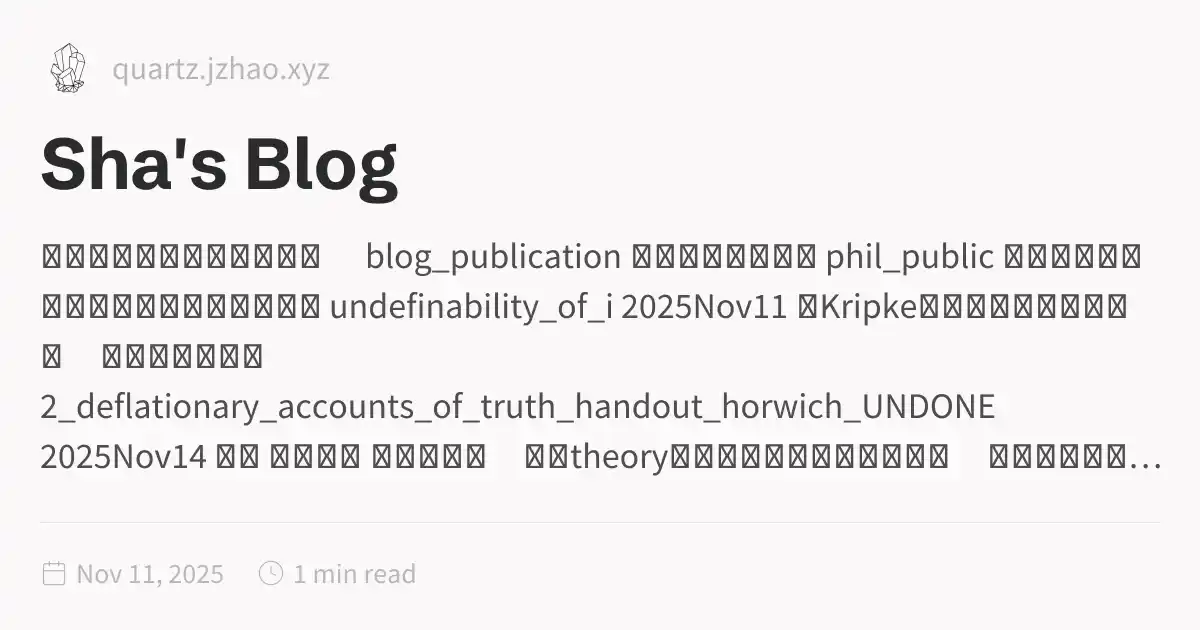
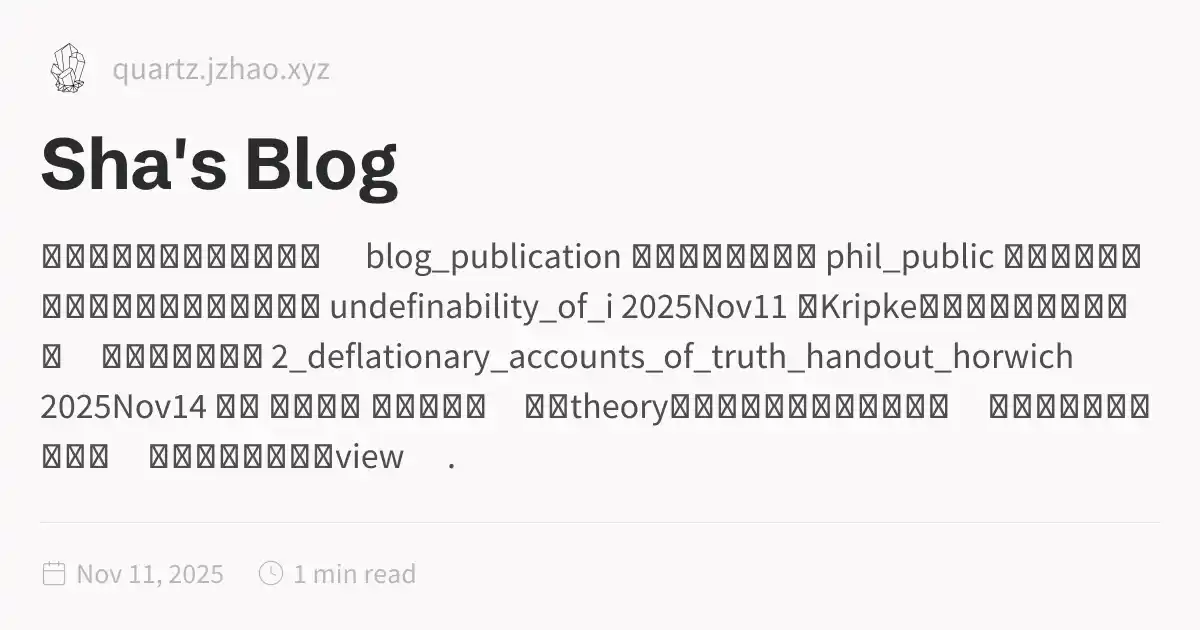
horwich truth undone3

Changed region(s): [[0.0308, 0.5429, 0.9558, 0.6635], [0.4317, 0.6937, 0.9558, 0.754], [0.0308, 0.6937, 0.4008, 0.754]]

diff --git a/docs/phil_public/index.html b/docs/phil_public/index.html
@@ -116,6 +116,6 @@ pre:hover > .expand-button {
   padding: 0 12px;
   font-size: 14px;
 }
[2 lines of base64/hex data omitted]
 </script><script type="module">function f(i,e){if(!i)return;function r(o){o.target===this&&(o.preventDefault(),o.stopPropagation(),e())}function t(o){o.key.startsWith("Esc")&&(o.preventDefault(),e())}i?.addEventListener("click",r),window.addCleanup(()=>i?.removeEventListener("click",r)),document.addEventListener("keydown",t),window.addCleanup(()=>document.removeEventListener("keydown",t))}function y(i){for(;i.firstChild;)i.removeChild(i.firstChild)}var h=class{constructor(e,r){this.container=e;this.content=r;this.setupEventListeners(),this.setupNavigationControls(),this.resetTransform()}isDragging=!1;startPan={x:0,y:0};currentPan={x:0,y:0};scale=1;MIN_SCALE=.5;MAX_SCALE=3;cleanups=[];setupEventListeners(){let e=this.onMouseDown.bind(this),r=this.onMouseMove.bind(this),t=this.onMouseUp.bind(this),o=this.resetTransform.bind(this);this.container.addEventListener("mousedown",e),document.addEventListener("mousemove",r),document.addEventListener("mouseup",t),window.addEventListener("resize",o),this.cleanups.push(()=>this.container.removeEventListener("mousedown",e),()=>document.removeEventListener("mousemove",r),()=>document.removeEventListener("mouseup",t),()=>window.removeEventListener("resize",o))}cleanup(){for(let e of this.cleanups)e()}setupNavigationControls(){let e=document.createElement("div");e.className="mermaid-controls";let r=this.createButton("+",()=>this.zoom(.1)),t=this.createButton("-",()=>this.zoom(-.1)),o=this.createButton("Reset",()=>this.resetTransform());e.appendChild(t),e.appendChild(o),e.appendChild(r),this.container.appendChild(e)}createButton(e,r){let t=document.createElement("button");return t.textContent=e,t.className="mermaid-control-button",t.addEventListener("click",r),window.addCleanup(()=>t.removeEventListener("click",r)),t}onMouseDown(e){e.button===0&&(this.isDragging=!0,this.startPan={x:e.clientX-this.currentPan.x,y:e.clientY-this.currentPan.y},this.container.style.cursor="grabbing")}onMouseMove(e){this.isDragging&&(e.preventDefault(),this.currentPan={x:e.clientX-this.startPan.x,y:e.clientY-this.startPan.y},this.updateTransform())}onMouseUp(){this.isDragging=!1,this.container.style.cursor="grab"}zoom(e){let r=Math.min(Math.max(this.scale+e,this.MIN_SCALE),this.MAX_SCALE),t=this.content.getBoundingClientRect(),o=t.width/2,n=t.height/2,c=r-this.scale;this.currentPan.x-=o*c,this.currentPan.y-=n*c,this.scale=r,this.updateTransform()}updateTransform(){this.content.style.transform=`translate(${this.currentPan.x}px, ${this.currentPan.y}px) scale(${this.scale})`}resetTransform(){this.scale=1;let e=this.content.querySelector("svg");this.currentPan={x:e.getBoundingClientRect().width/2,y:e.getBoundingClientRect().height/2},this.updateTransform()}},C=["--secondary","--tertiary","--gray","--light","--lightgray","--highlight","--dark","--darkgray","--codeFont"],E;document.addEventListener("nav",async()=>{let e=document.querySelector(".center").querySelectorAll("code.mermaid");if(e.length===0)return;E||=await import("https://cdnjs.cloudflare.com/ajax/libs/mermaid/11.4.0/mermaid.esm.min.mjs");let r=E.default,t=new WeakMap;for(let n of e)t.set(n,n.innerText);async function o(){for(let s of e){s.removeAttribute("data-processed");let a=t.get(s);a&&(s.innerHTML=a)}let n=C.reduce((s,a)=>(s[a]=window.getComputedStyle(document.documentElement).getPropertyValue(a),s),{}),c=document.documentElement.getAttribute("saved-theme")==="dark";r.initialize({startOnLoad:!1,securityLevel:"loose",theme:c?"dark":"base",themeVariables:{fontFamily:n["--codeFont"],primaryColor:n["--light"],primaryTextColor:n["--darkgray"],primaryBorderColor:n["--tertiary"],lineColor:n["--darkgray"],secondaryColor:n["--secondary"],tertiaryColor:n["--tertiary"],clusterBkg:n["--light"],edgeLabelBackground:n["--highlight"]}}),await r.run({nodes:e})}await o(),document.addEventListener("themechange",o),window.addCleanup(()=>document.removeEventListener("themechange",o));for(let n=0;n<e.length;n++){let v=function(){let g=l.querySelector("#mermaid-space"),m=l.querySelector(".mermaid-content");if(!m)return;y(m);let w=c.querySelector("svg").cloneNode(!0);m.appendChild(w),l.classList.add("active"),g.style.cursor="grab",u=new h(g,m)},M=function(){l.classList.remove("active"),u?.cleanup(),u=null},c=e[n],s=c.parentElement,a=s.querySelector(".clipboard-button"),d=s.querySelector(".expand-button"),p=window.getComputedStyle(a),L=a.offsetWidth+parseFloat(p.marginLeft||"0")+parseFloat(p.marginRight||"0");d.style.right=`calc(${L}px + 0.3rem)`,s.prepend(d);let l=s.querySelector("#mermaid-container");if(!l)return;let u=null;d.addEventListener("click",v),f(l,M),window.addCleanup(()=>{u?.cleanup(),d.removeEventListener("click",v)})}});
 </script><script src="https://cdn.jsdelivr.net/npm/katex@0.16.11/dist/contrib/copy-tex.min.js" type="application/javascript"></script><script src="../postscript.js" type="module"></script></html>

diff --git a/docs/blog_publication/Oct26_2025.html b/docs/blog_publication/Oct26_2025.html
@@ -116,7 +116,7 @@ pre:hover > .expand-button {
   padding: 0 12px;
   font-size: 14px;
 }
[2 lines of base64/hex data omitted]
 <p>恍惚间听到老师说在他想来世界有种最坏的可能，可能一切只存在了一秒，在此之前所有记忆全是幻觉。
 听上去是个很老掉牙的skepticism问题，毕竟这本书就是个重生版的hume。我不知道怎么反驳他。我想这确实有可能，毕竟一秒钟前我在白日做梦，或许世界诞生于梦醒时分，梦到的东西只是世界解的initial condition。我很讨厌康德用一些超自然和自己不承认是心理学的心理学去反驳他的做法。
 maudlin说拒绝这种可能也不实用。哪怕世界在此刻才开始运转，也不会影响任何我们对世界的认知，物理学的定律不会因此发生变化，历史书也不会改写。我们只是不知道怎么证明这一切确实存在。

diff --git a/docs/phil_public/2_deflationary_accounts_of_truth_handout_horwich.html b/docs/phil_public/2_deflationary_accounts_of_truth_handout_horwich.html
@@ -334,6 +334,6 @@ For, as I suggested in Section 2, it’s plausible that our acceptance of:</p>
                 C46.042,11.405,47.451,12,49,12c3.309,0,6-2.691,6-6S52.309,0,49,0z M11,9c0-1.103,0.897-2,2-2s2,0.897,2,2s-0.897,2-2,2
                 S11,10.103,11,9z M6,51c-2.206,0-4-1.794-4-4s1.794-4,4-4s4,1.794,4,4S8.206,51,6,51z M33,49c0,2.206-1.794,4-4,4s-4-1.794-4-4
                 s1.794-4,4-4S33,46.794,33,49z M29,31c-3.309,0-6-2.691-6-6s2.691-6,6-6s6,2.691,6,6S32.309,31,29,31z M47,41c0,1.103-0.897,2-2,2
-                s-2-0.897-2-2s0.897-2,2-2S47,39.897,47,41z M49,10c-2.206,0-4-1.794-4-4s1.794-4,4-4s4,1.794,4,4S51.206,10,49,10z"></path></svg></button></div><div class="global-graph-outer"><div class="global-graph-container" data-cfg="{&quot;drag&quot;:true,&quot;zoom&quot;:true,&quot;depth&quot;:-1,&quot;scale&quot;:0.9,&quot;repelForce&quot;:0.5,&quot;centerForce&quot;:0.2,&quot;linkDistance&quot;:30,&quot;fontSize&quot;:0.6,&quot;opacityScale&quot;:1,&quot;showTags&quot;:true,&quot;removeTags&quot;:[],&quot;focusOnHover&quot;:true,&quot;enableRadial&quot;:true}"></div></div></div><div class="toc desktop-only"><button type="button" class="toc-header" aria-controls="toc-0" aria-expanded="true"><h3>Table of Contents</h3><svg xmlns="http://www.w3.org/2000/svg" width="24" height="24" viewBox="0 0 24 24" fill="none" stroke="currentColor" stroke-width="2" stroke-linecap="round" stroke-linejoin="round" class="fold"><polyline points="6 9 12 15 18 9"></polyline></svg></button><ul id="list-1" class="toc-content overflow"><li class="depth-0"><a href="#introduction" data-for="introduction">INTRODUCTION</a></li><li class="depth-0"><a href="#section-1" data-for="section-1">SECTION 1</a></li><li class="depth-0"><a href="#section-2-künnes-schema" data-for="section-2-künnes-schema">SECTION 2 Künne’s schema</a></li><li class="depth-0"><a href="#section-3-objections" data-for="section-3-objections">SECTION 3 objections</a></li><li class="depth-0"><a href="#section-4-different-languages" data-for="section-4-different-languages">SECTION 4 different languages</a></li><li class="depth-0"><a href="#section-5-liar-paradox" data-for="section-5-liar-paradox">SECTION 5 Liar paradox</a></li><li class="depth-0"><a href="#section-6-answer-to-5-questions" data-for="section-6-answer-to-5-questions">SECTION 6 answer to 5 questions</a></li><li class="overflow-end"></li></ul></div></div><footer class><p>Created with <a href="https://quartz.jzhao.xyz/">Quartz v4.5.2</a> © 2025</p><ul><li><a href="https://github.com/jackyzha0/quartz">GitHub</a></li><li><a href="https://discord.gg/cRFFHYye7t">Discord Community</a></li></ul></footer></div></div></body><script type="application/javascript">function n(){let t=this.parentElement;t.classList.toggle("is-collapsed");let e=t.getElementsByClassName("callout-content")[0];if(!e)return;let l=t.classList.contains("is-collapsed");e.style.gridTemplateRows=l?"0fr":"1fr"}function c(){let t=document.getElementsByClassName("callout is-collapsible");for(let e of t){let l=e.getElementsByClassName("callout-title")[0],s=e.getElementsByClassName("callout-content")[0];if(!l||!s)continue;l.addEventListener("click",n),window.addCleanup(()=>l.removeEventListener("click",n));let o=e.classList.contains("is-collapsed");s.style.gridTemplateRows=o?"0fr":"1fr"}}document.addEventListener("nav",c);
+                s-2-0.897-2-2s0.897-2,2-2S47,39.897,47,41z M49,10c-2.206,0-4-1.794-4-4s1.794-4,4-4s4,1.794,4,4S51.206,10,49,10z"></path></svg></button></div><div class="global-graph-outer"><div class="global-graph-container" data-cfg="{&quot;drag&quot;:true,&quot;zoom&quot;:true,&quot;depth&quot;:-1,&quot;scale&quot;:0.9,&quot;repelForce&quot;:0.5,&quot;centerForce&quot;:0.2,&quot;linkDistance&quot;:30,&quot;fontSize&quot;:0.6,&quot;opacityScale&quot;:1,&quot;showTags&quot;:true,&quot;removeTags&quot;:[],&quot;focusOnHover&quot;:true,&quot;enableRadial&quot;:true}"></div></div></div><div class="toc desktop-only"><button type="button" class="toc-header" aria-controls="toc-0" aria-expanded="true"><h3>Table of Contents</h3><svg xmlns="http://www.w3.org/2000/svg" width="24" height="24" viewBox="0 0 24 24" fill="none" stroke="currentColor" stroke-width="2" stroke-linecap="round" stroke-linejoin="round" class="fold"><polyline points="6 9 12 15 18 9"></polyline></svg></button><ul id="list-1" class="toc-content overflow"><li class="depth-0"><a href="#introduction" data-for="introduction">INTRODUCTION</a></li><li class="depth-0"><a href="#section-1" data-for="section-1">SECTION 1</a></li><li class="depth-0"><a href="#section-2-künnes-schema" data-for="section-2-künnes-schema">SECTION 2 Künne’s schema</a></li><li class="depth-0"><a href="#section-3-objections" data-for="section-3-objections">SECTION 3 objections</a></li><li class="depth-0"><a href="#section-4-different-languages" data-for="section-4-different-languages">SECTION 4 different languages</a></li><li class="depth-0"><a href="#section-5-liar-paradox" data-for="section-5-liar-paradox">SECTION 5 Liar paradox</a></li><li class="depth-0"><a href="#section-6-answer-to-5-questions" data-for="section-6-answer-to-5-questions">SECTION 6 answer to 5 questions</a></li><li class="overflow-end"></li></ul></div><div class="backlinks"><h3>Backlinks</h3><ul id="list-2" class="overflow"><li><a href="../" class="internal">Sha's Blog</a></li><li class="overflow-end"></li></ul></div></div><footer class><p>Created with <a href="https://quartz.jzhao.xyz/">Quartz v4.5.2</a> © 2025</p><ul><li><a href="https://github.com/jackyzha0/quartz">GitHub</a></li><li><a href="https://discord.gg/cRFFHYye7t">Discord Community</a></li></ul></footer></div></div></body><script type="application/javascript">function n(){let t=this.parentElement;t.classList.toggle("is-collapsed");let e=t.getElementsByClassName("callout-content")[0];if(!e)return;let l=t.classList.contains("is-collapsed");e.style.gridTemplateRows=l?"0fr":"1fr"}function c(){let t=document.getElementsByClassName("callout is-collapsible");for(let e of t){let l=e.getElementsByClassName("callout-title")[0],s=e.getElementsByClassName("callout-content")[0];if(!l||!s)continue;l.addEventListener("click",n),window.addCleanup(()=>l.removeEventListener("click",n));let o=e.classList.contains("is-collapsed");s.style.gridTemplateRows=o?"0fr":"1fr"}}document.addEventListener("nav",c);
 </script><script type="module">function f(i,e){if(!i)return;function r(o){o.target===this&&(o.preventDefault(),o.stopPropagation(),e())}function t(o){o.key.startsWith("Esc")&&(o.preventDefault(),e())}i?.addEventListener("click",r),window.addCleanup(()=>i?.removeEventListener("click",r)),document.addEventListener("keydown",t),window.addCleanup(()=>document.removeEventListener("keydown",t))}function y(i){for(;i.firstChild;)i.removeChild(i.firstChild)}var h=class{constructor(e,r){this.container=e;this.content=r;this.setupEventListeners(),this.setupNavigationControls(),this.resetTransform()}isDragging=!1;startPan={x:0,y:0};currentPan={x:0,y:0};scale=1;MIN_SCALE=.5;MAX_SCALE=3;cleanups=[];setupEventListeners(){let e=this.onMouseDown.bind(this),r=this.onMouseMove.bind(this),t=this.onMouseUp.bind(this),o=this.resetTransform.bind(this);this.container.addEventListener("mousedown",e),document.addEventListener("mousemove",r),document.addEventListener("mouseup",t),window.addEventListener("resize",o),this.cleanups.push(()=>this.container.removeEventListener("mousedown",e),()=>document.removeEventListener("mousemove",r),()=>document.removeEventListener("mouseup",t),()=>window.removeEventListener("resize",o))}cleanup(){for(let e of this.cleanups)e()}setupNavigationControls(){let e=document.createElement("div");e.className="mermaid-controls";let r=this.createButton("+",()=>this.zoom(.1)),t=this.createButton("-",()=>this.zoom(-.1)),o=this.createButton("Reset",()=>this.resetTransform());e.appendChild(t),e.appendChild(o),e.appendChild(r),this.container.appendChild(e)}createButton(e,r){let t=document.createElement("button");return t.textContent=e,t.className="mermaid-control-button",t.addEventListener("click",r),window.addCleanup(()=>t.removeEventListener("click",r)),t}onMouseDown(e){e.button===0&&(this.isDragging=!0,this.startPan={x:e.clientX-this.currentPan.x,y:e.clientY-this.currentPan.y},this.container.style.cursor="grabbing")}onMouseMove(e){this.isDragging&&(e.preventDefault(),this.currentPan={x:e.clientX-this.startPan.x,y:e.clientY-this.startPan.y},this.updateTransform())}onMouseUp(){this.isDragging=!1,this.container.style.cursor="grab"}zoom(e){let r=Math.min(Math.max(this.scale+e,this.MIN_SCALE),this.MAX_SCALE),t=this.content.getBoundingClientRect(),o=t.width/2,n=t.height/2,c=r-this.scale;this.currentPan.x-=o*c,this.currentPan.y-=n*c,this.scale=r,this.updateTransform()}updateTransform(){this.content.style.transform=`translate(${this.currentPan.x}px, ${this.currentPan.y}px) scale(${this.scale})`}resetTransform(){this.scale=1;let e=this.content.querySelector("svg");this.currentPan={x:e.getBoundingClientRect().width/2,y:e.getBoundingClientRect().height/2},this.updateTransform()}},C=["--secondary","--tertiary","--gray","--light","--lightgray","--highlight","--dark","--darkgray","--codeFont"],E;document.addEventListener("nav",async()=>{let e=document.querySelector(".center").querySelectorAll("code.mermaid");if(e.length===0)return;E||=await import("https://cdnjs.cloudflare.com/ajax/libs/mermaid/11.4.0/mermaid.esm.min.mjs");let r=E.default,t=new WeakMap;for(let n of e)t.set(n,n.innerText);async function o(){for(let s of e){s.removeAttribute("data-processed");let a=t.get(s);a&&(s.innerHTML=a)}let n=C.reduce((s,a)=>(s[a]=window.getComputedStyle(document.documentElement).getPropertyValue(a),s),{}),c=document.documentElement.getAttribute("saved-theme")==="dark";r.initialize({startOnLoad:!1,securityLevel:"loose",theme:c?"dark":"base",themeVariables:{fontFamily:n["--codeFont"],primaryColor:n["--light"],primaryTextColor:n["--darkgray"],primaryBorderColor:n["--tertiary"],lineColor:n["--darkgray"],secondaryColor:n["--secondary"],tertiaryColor:n["--tertiary"],clusterBkg:n["--light"],edgeLabelBackground:n["--highlight"]}}),await r.run({nodes:e})}await o(),document.addEventListener("themechange",o),window.addCleanup(()=>document.removeEventListener("themechange",o));for(let n=0;n<e.length;n++){let v=function(){let g=l.querySelector("#mermaid-space"),m=l.querySelector(".mermaid-content");if(!m)return;y(m);let w=c.querySelector("svg").cloneNode(!0);m.appendChild(w),l.classList.add("active"),g.style.cursor="grab",u=new h(g,m)},M=function(){l.classList.remove("active"),u?.cleanup(),u=null},c=e[n],s=c.parentElement,a=s.querySelector(".clipboard-button"),d=s.querySelector(".expand-button"),p=window.getComputedStyle(a),L=a.offsetWidth+parseFloat(p.marginLeft||"0")+parseFloat(p.marginRight||"0");d.style.right=`calc(${L}px + 0.3rem)`,s.prepend(d);let l=s.querySelector("#mermaid-container");if(!l)return;let u=null;d.addEventListener("click",v),f(l,M),window.addCleanup(()=>{u?.cleanup(),d.removeEventListener("click",v)})}});
 </script><script src="https://cdn.jsdelivr.net/npm/katex@0.16.11/dist/contrib/copy-tex.min.js" type="application/javascript"></script><script src="../postscript.js" type="module"></script></html>

diff --git a/docs/index.html b/docs/index.html
@@ -1,5 +1,5 @@
 <!DOCTYPE html>
-<html lang="en" dir="ltr"><head><title>Sha's Blog</title><meta charset="utf-8"/><link rel="preconnect" href="https://fonts.googleapis.com"/><link rel="preconnect" href="https://fonts.gstatic.com"/><link rel="stylesheet" href="https://fonts.googleapis.com/css2?family=Schibsted Grotesk:wght@400;700&amp;family=Source Sans Pro:ital,wght@0,400;0,600;1,400;1,600&amp;family=IBM Plex Mono:wght@400;600&amp;display=swap"/><link rel="preconnect" href="https://cdnjs.cloudflare.com" crossorigin="anonymous"/><meta name="viewport" content="width=device-width, initial-scale=1.0"/><meta name="og:site_name" content="Quartz 4"/><meta property="og:title" content="Sha's Blog"/><meta property="og:type" content="website"/><meta name="twitter:card" content="summary_large_image"/><meta name="twitter:title" content="Sha's Blog"/><meta name="twitter:description" content="你们可以开盘我第几周断更。 blog_publication 会放一些随手写的 phil_public 是一些上课的笔记和我觉得有意思的问题 undefinability_of_i 2025Nov11 讲Kripke的时候莫名其妙扯到的，其实很通俗易懂 2_deflationary_accounts_of_truth_handout_horwich_UNDONE 2025Nov14 好累 写了一半 周末再整理。他的theory是一个我乍一看觉得像放屁，仔细一看觉得很有道理，再想觉得没道理的view。 ."/><meta property="og:description" content="你们可以开盘我第几周断更。 blog_publication 会放一些随手写的 phil_public 是一些上课的笔记和我觉得有意思的问题 undefinability_of_i 2025Nov11 讲Kripke的时候莫名其妙扯到的，其实很通俗易懂 2_deflationary_accounts_of_truth_handout_horwich_UNDONE 2025Nov14 好累 写了一半 周末再整理。他的theory是一个我乍一看觉得像放屁，仔细一看觉得很有道理，再想觉得没道理的view。 ."/><meta property="og:image:alt" content="你们可以开盘我第几周断更。 blog_publication 会放一些随手写的 phil_public 是一些上课的笔记和我觉得有意思的问题 undefinability_of_i 2025Nov11 讲Kripke的时候莫名其妙扯到的，其实很通俗易懂 2_deflationary_accounts_of_truth_handout_horwich_UNDONE 2025Nov14 好累 写了一半 周末再整理。他的theory是一个我乍一看觉得像放屁，仔细一看觉得很有道理，再想觉得没道理的view。 ."/><meta property="twitter:domain" content="quartz.jzhao.xyz"/><meta property="og:url" content="https://quartz.jzhao.xyz/index"/><meta property="twitter:url" content="https://quartz.jzhao.xyz/index"/><link rel="icon" href="./static/icon.png"/><meta name="description" content="你们可以开盘我第几周断更。 blog_publication 会放一些随手写的 phil_public 是一些上课的笔记和我觉得有意思的问题 undefinability_of_i 2025Nov11 讲Kripke的时候莫名其妙扯到的，其实很通俗易懂 2_deflationary_accounts_of_truth_handout_horwich_UNDONE 2025Nov14 好累 写了一半 周末再整理。他的theory是一个我乍一看觉得像放屁，仔细一看觉得很有道理，再想觉得没道理的view。 ."/><meta name="generator" content="Quartz"/><link href="./index.css" rel="stylesheet" type="text/css" spa-preserve/><style>.expand-button {
+<html lang="en" dir="ltr"><head><title>Sha's Blog</title><meta charset="utf-8"/><link rel="preconnect" href="https://fonts.googleapis.com"/><link rel="preconnect" href="https://fonts.gstatic.com"/><link rel="stylesheet" href="https://fonts.googleapis.com/css2?family=Schibsted Grotesk:wght@400;700&amp;family=Source Sans Pro:ital,wght@0,400;0,600;1,400;1,600&amp;family=IBM Plex Mono:wght@400;600&amp;display=swap"/><link rel="preconnect" href="https://cdnjs.cloudflare.com" crossorigin="anonymous"/><meta name="viewport" content="width=device-width, initial-scale=1.0"/><meta name="og:site_name" content="Quartz 4"/><meta property="og:title" content="Sha's Blog"/><meta property="og:type" content="website"/><meta name="twitter:card" content="summary_large_image"/><meta name="twitter:title" content="Sha's Blog"/><meta name="twitter:description" content="你们可以开盘我第几周断更。 blog_publication 会放一些随手写的 phil_public 是一些上课的笔记和我觉得有意思的问题 undefinability_of_i 2025Nov11 讲Kripke的时候莫名其妙扯到的，其实很通俗易懂 2_deflationary_accounts_of_truth_handout_horwich 2025Nov14 好累 写了一半 周末再整理。他的theory是一个我乍一看觉得像放屁，仔细一看觉得很有道理，再想觉得没道理的view。 ."/><meta property="og:description" content="你们可以开盘我第几周断更。 blog_publication 会放一些随手写的 phil_public 是一些上课的笔记和我觉得有意思的问题 undefinability_of_i 2025Nov11 讲Kripke的时候莫名其妙扯到的，其实很通俗易懂 2_deflationary_accounts_of_truth_handout_horwich 2025Nov14 好累 写了一半 周末再整理。他的theory是一个我乍一看觉得像放屁，仔细一看觉得很有道理，再想觉得没道理的view。 ."/><meta property="og:image:alt" content="你们可以开盘我第几周断更。 blog_publication 会放一些随手写的 phil_public 是一些上课的笔记和我觉得有意思的问题 undefinability_of_i 2025Nov11 讲Kripke的时候莫名其妙扯到的，其实很通俗易懂 2_deflationary_accounts_of_truth_handout_horwich 2025Nov14 好累 写了一半 周末再整理。他的theory是一个我乍一看觉得像放屁，仔细一看觉得很有道理，再想觉得没道理的view。 ."/><meta property="twitter:domain" content="quartz.jzhao.xyz"/><meta property="og:url" content="https://quartz.jzhao.xyz/index"/><meta property="twitter:url" content="https://quartz.jzhao.xyz/index"/><link rel="icon" href="./static/icon.png"/><meta name="description" content="你们可以开盘我第几周断更。 blog_publication 会放一些随手写的 phil_public 是一些上课的笔记和我觉得有意思的问题 undefinability_of_i 2025Nov11 讲Kripke的时候莫名其妙扯到的，其实很通俗易懂 2_deflationary_accounts_of_truth_handout_horwich 2025Nov14 好累 写了一半 周末再整理。他的theory是一个我乍一看觉得像放屁，仔细一看觉得很有道理，再想觉得没道理的view。 ."/><meta name="generator" content="Quartz"/><link href="./index.css" rel="stylesheet" type="text/css" spa-preserve/><style>.expand-button {
   position: absolute;
   display: flex;
   float: right;
@@ -130,7 +130,7 @@ pre:hover > .expand-button {
 <li>2025Nov11 讲Kripke的时候莫名其妙扯到的，其实很通俗易懂</li>
 </ul>
 </li>
-<li><a href="./2_deflationary_accounts_of_truth_handout_horwich_UNDONE" class="internal" data-slug="2_deflationary_accounts_of_truth_handout_horwich_UNDONE">2_deflationary_accounts_of_truth_handout_horwich_UNDONE</a>
+<li><a href="./phil_public/2_deflationary_accounts_of_truth_handout_horwich" class="internal" data-slug="phil_public/2_deflationary_accounts_of_truth_handout_horwich">2_deflationary_accounts_of_truth_handout_horwich</a>
 <ul>
 <li>2025Nov14 好累 写了一半 周末再整理。他的theory是一个我乍一看觉得像放屁，仔细一看觉得很有道理，再想觉得没道理的view。</li>
 </ul>
